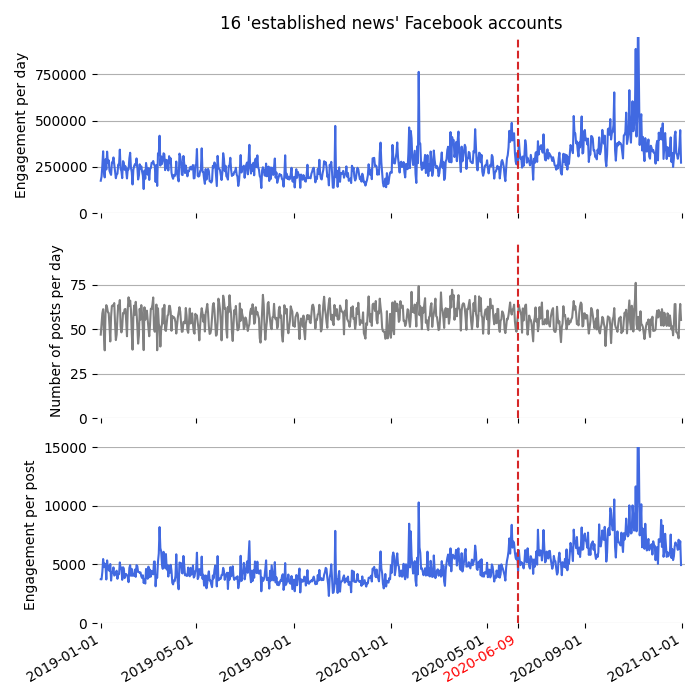
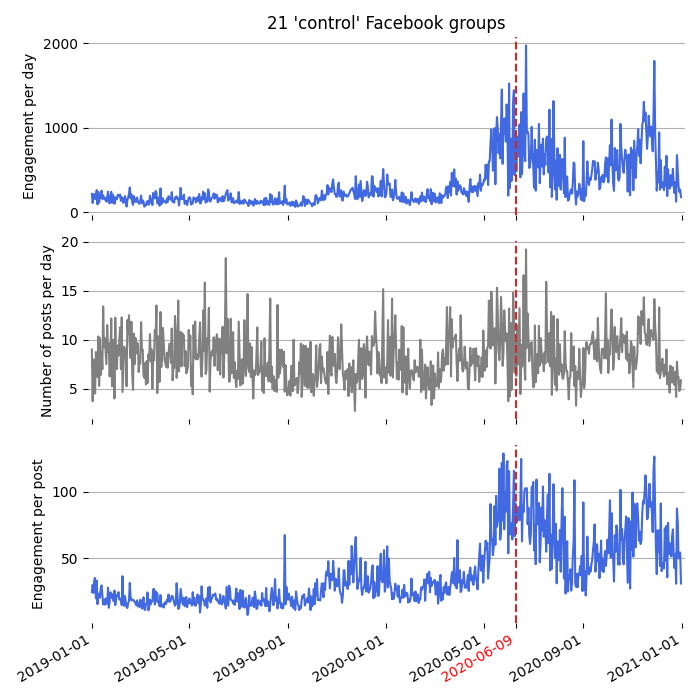
add new control group analysis

diff --git a/code/create_supplementary_figures.py b/code/create_supplementary_figures.py
@@ -1,10 +1,15 @@
 import pandas as pd
+import numpy as np
+import matplotlib.pyplot as plt
+import scipy.stats as stats
 
-from utils import import_data
-from create_section_1_figures import plot_average_timeseries
+from utils import (import_data, save_figure, 
+                   calculate_june_drop, calculate_confidence_interval_median,
+                   percentage_change_template)
+from create_section_1_figures import plot_average_timeseries, plot_june_drop_percentage_change
 
 
-def import_crowdtangle_group_data():
+def import_crowdtangle_group_data_old():
 
     posts_group_df = import_data(file_name="posts_main_news_2021_group.csv", folder="supplementary")
     print("There are {} 'mainstream' Facebook groups.".format(posts_group_df.account_id.nunique()))
@@ -17,11 +22,67 @@ def import_crowdtangle_group_data():
     posts_df['date'] = pd.to_datetime(posts_df['date'])
     posts_df['engagement'] = posts_df[["share", "comment", "reaction"]].sum(axis=1)
 
+    return posts_df, posts_page_df
+
+
+def import_crowdtangle_group_data():
+
+    posts_df = import_data(file_name="control_groups.csv", folder="supplementary")
+    posts_df['date'] = pd.to_datetime(posts_df['date'])
+    posts_df['engagement'] = posts_df[["share", "comment", "reaction"]].sum(axis=1)
+
     return posts_df
+
+
+def plot_june_drop_percentage_change_groups(posts_df):
+
+    sumup_df = calculate_june_drop(posts_df)
+
+    print('\nJUNE DROP:')
+
+    print('Number of Facebook account:', len(sumup_df))
+    print('Number of Facebook account with a decrease:', len(sumup_df[sumup_df['percentage_change_engagament'] < 0]))
+    print('Median engagement percentage changes:', np.median(sumup_df['percentage_change_engagament']))
+    
+    w, p = stats.wilcoxon(sumup_df['percentage_change_engagament'])
+    print('Wilcoxon test against zero for the engagement percentage changes: w =', w, ', p =', p)
+    
+    plt.figure(figsize=(7, 3.5))
+    ax = plt.subplot(111)
+    plt.title("{} 'control' Facebook groups".format(len(sumup_df)))
+
+    random_y = list(np.random.random(len(sumup_df)))
+    plt.plot(sumup_df['percentage_change_engagament'].values, 
+             random_y, 
+             'o', markerfacecolor='royalblue', markeredgecolor='blue', alpha=0.6,
+             label='Facebook groups')
+
+    low, high = calculate_confidence_interval_median(sumup_df['percentage_change_engagament'].values)
+    plt.plot([low, np.median(sumup_df['percentage_change_engagament']), high], 
+             [0.5 for x in range(3)], '|-', color='navy', 
+             linewidth=2, markersize=12, markeredgewidth=2)
+
+    percentage_change_template(ax)
+    plt.ylim(-.2, 1.2)
+    plt.xlabel("Engagement percentage change after June 9, 2020", size='large')
+
+    plt.tight_layout()
+    save_figure('supplementary_mainstream_june_drop_percentage_change')
 
 
 if __name__=="__main__":
 
-    posts_df = import_crowdtangle_group_data()
+    # # Old mainstream data
+    # posts_df, posts_page_df = import_crowdtangle_group_data_old()
+    # plot_average_timeseries(posts_df, 'whatever', 'supplementary_mainstream_average_timeseries', 'established news')
+    # plot_june_drop_percentage_change(posts_df, posts_page_df, 'supp', 'supplementary_mainstream_june_drop_percentage_change')
 
-    plot_average_timeseries(posts_df, 'whathever', 'supplementary_mainstream_average_timeseries', 'established news')
+    # New mainstream data 
+    posts_df = import_crowdtangle_group_data()
+    print(len(posts_df))
+    print(posts_df.account_id.nunique())
+
+    plot_average_timeseries(posts_df, 'whatever', 'supplementary_mainstream_average_timeseries', 'control')
+    plot_june_drop_percentage_change_groups(posts_df)
+
+

diff --git a/code/create_section_1_figures.py b/code/create_section_1_figures.py
@@ -309,9 +309,9 @@ def plot_average_timeseries(posts_df, database_name, figure_name, option='repeat
             str(posts_df.account_id.nunique()), database_name))
         plt.ylim(0, 3200)
     else:
-        plt.title("{} 'established news' Facebook accounts".format(str(posts_df.account_id.nunique())))
-        plt.ylim(0, 950000)
-    
+        plt.title("{} '{}' Facebook groups".format(str(posts_df.account_id.nunique()), option))
+        # plt.ylim(0, 950000)
+
     xticks = [np.datetime64('2019-01-01'), np.datetime64('2019-05-01'), np.datetime64('2019-09-01'),
               np.datetime64('2020-01-01'), np.datetime64('2020-05-01'), np.datetime64('2020-09-01'),
               np.datetime64('2021-01-01'), drop_date
@@ -325,7 +325,7 @@ def plot_average_timeseries(posts_df, database_name, figure_name, option='repeat
     plt.ylabel("Number of posts per day")
     timeserie_template(ax)
     plt.axvline(x=np.datetime64(drop_date), color='C3', linestyle='--')
-    plt.ylim(0, 99)
+    # plt.ylim(0, 99)
 
     plt.xticks(xticks, labels=['' for x in xticks], rotation=30, ha='right')
     plt.gca().get_xticklabels()[-1].set_color('red')
@@ -338,8 +338,8 @@ def plot_average_timeseries(posts_df, database_name, figure_name, option='repeat
     plt.axvline(x=np.datetime64(drop_date), color='C3', linestyle='--')
     if option == 'repeat offender':
         plt.ylim(0, 60)
-    else:
-        plt.ylim(0, 15000)
+    #else:
+        #plt.ylim(0, 15000)
 
     plt.xticks(xticks, rotation=30, ha='right')
     plt.gca().get_xticklabels()[-1].set_color('red')
